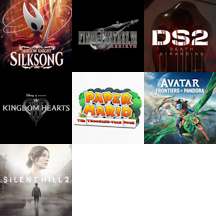
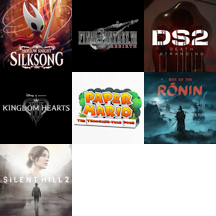
Update release radar

Changed region(s): [[0.6667, 0.3333, 1.0, 0.6667]]

diff --git a/_includes/sidebar.html b/_includes/sidebar.html
@@ -26,7 +26,7 @@
     <div class="widget-title">Release Radar</div>
     <div class="widget-content widget-releaseradar">
         <style type="text/css">
-            div.rrdiv{margin-bottom:12px;margin-left:-12px}div.rrdiv>img{margin-left:12px;width:72px;height:72px}img#silksong{background:url(/resources/png/nmn8uQRPqx4FOopD/release-radar.png) 0px 0px}img#ttyd{background:url(/resources/png/nmn8uQRPqx4FOopD/release-radar.png) -72px -72px}img#ff7rebirth{background:url(/resources/png/nmn8uQRPqx4FOopD/release-radar.png) -72px 0px}img#ds2{background:url(/resources/png/nmn8uQRPqx4FOopD/release-radar.png) -144px 0px}img#kh4{background:url(/resources/png/nmn8uQRPqx4FOopD/release-radar.png) 0px -72px}img#avatar{background:url(/resources/png/nmn8uQRPqx4FOopD/release-radar.png) -144px -72px}img#sh2{background:url(/resources/png/nmn8uQRPqx4FOopD/release-radar.png) 0px -144px}img#smrpg{background:url(/resources/png/nmn8uQRPqx4FOopD/release-radar.png) -72px -144px}
+            div.rrdiv{margin-bottom:12px;margin-left:-12px}div.rrdiv>img{margin-left:12px;width:72px;height:72px}img#silksong{background:url(/resources/png/nmn8uQRPqx4FOopD/release-radar.png) 0px 0px}img#ttyd{background:url(/resources/png/nmn8uQRPqx4FOopD/release-radar.png) -72px -72px}img#ff7rebirth{background:url(/resources/png/nmn8uQRPqx4FOopD/release-radar.png) -72px 0px}img#ds2{background:url(/resources/png/nmn8uQRPqx4FOopD/release-radar.png) -144px 0px}img#kh4{background:url(/resources/png/nmn8uQRPqx4FOopD/release-radar.png) 0px -72px}img#ronin{background:url(/resources/png/nmn8uQRPqx4FOopD/release-radar.png) -144px -72px}img#sh2{background:url(/resources/png/nmn8uQRPqx4FOopD/release-radar.png) 0px -144px}img#smrpg{background:url(/resources/png/nmn8uQRPqx4FOopD/release-radar.png) -72px -144px}
         </style>
         <div class="flex rrdiv">
             <img src="/resources/png/B1cZjrwAuuPI9Cyd/blank.png" id="silksong" title="Hollow Knight: Silksong">
@@ -35,7 +35,7 @@
             <img src="/resources/png/B1cZjrwAuuPI9Cyd/blank.png" id="ttyd" title="Paper Mario: The Thousand-Year Door">
         </div>
         <div class="flex rrdiv">
-            <img src="/resources/png/B1cZjrwAuuPI9Cyd/blank.png" id="avatar" title="Avatar: Frontiers of Pandora">
+            <img src="/resources/png/B1cZjrwAuuPI9Cyd/blank.png" id="ronin" title="Rise of the Ronin">
             <img src="/resources/png/B1cZjrwAuuPI9Cyd/blank.png" id="sh2" title="Silent Hill 2 Remake">
             <img src="/resources/png/B1cZjrwAuuPI9Cyd/blank.png" id="ff7rebirth" title="Final Fantasy VII: Rebirth">
         </div>
